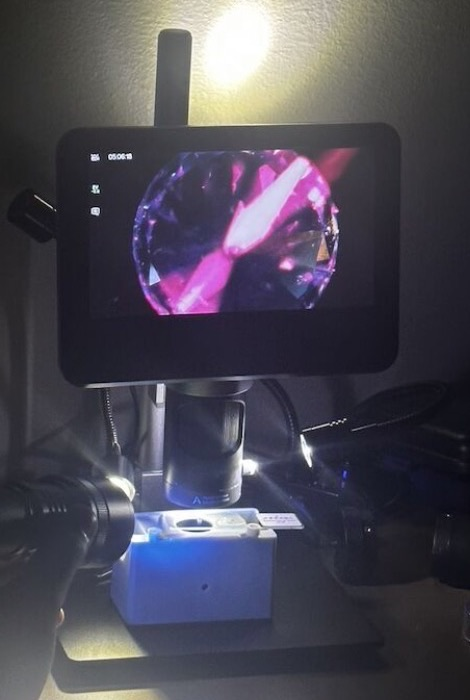
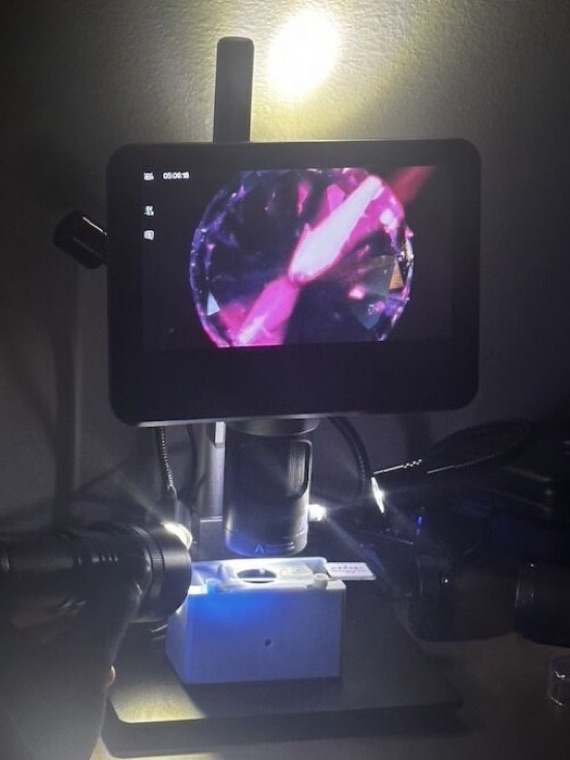
Fill the rig cell instead of floating the machine in black bars
The photograph is portrait and the cell was landscape, so containing it left the
machine stranded between two black gaps while the crystal filled its own cell
completely. The two did not read as a pair, which is what looked wrong.

The rig is re-cropped from the original at 3:4, tight around the whole machine:
screen, column, objective, lit stage and base, nothing spare. Both cells are now
420px and both fill, so the block reads as two views of one job rather than two
pictures of different sizes sharing a border.

diff --git a/index.html b/index.html
@@ -4,8 +4,8 @@
 <meta charset="UTF-8" />
 <meta name="viewport" content="width=device-width, initial-scale=1.0, viewport-fit=cover" />
 <meta name="theme-color" content="#000000" />
-<link rel="icon" href="favicon.svg?v=25" type="image/svg+xml" sizes="any" />
-<link rel="apple-touch-icon" href="favicon.svg?v=25" />
+<link rel="icon" href="favicon.svg?v=26" type="image/svg+xml" sizes="any" />
+<link rel="apple-touch-icon" href="favicon.svg?v=26" />
 
 <title>Jewel Labs</title>
 <meta name="description" content="Jewel Labs builds automated diamond graders and the machine learning models that run them. A polished stone is read on the desk in seconds, and the EU customs filing is built from the record the machine writes." />
@@ -29,7 +29,7 @@
 <link rel="preconnect" href="https://fonts.googleapis.com" />
 <link rel="preconnect" href="https://fonts.gstatic.com" crossorigin />
 <link href="https://fonts.googleapis.com/css2?family=Geist:wght@300;400;500&family=Inter:wght@300;400;450;500&display=swap" rel="stylesheet" />
-<link rel="stylesheet" href="style.css?v=25" />
+<link rel="stylesheet" href="style.css?v=26" />
 <script>document.documentElement.classList.add('js')</script>
 
 <script type="application/ld+json">
@@ -115,7 +115,7 @@ setTimeout(function () {
     </div>
     <div class="media">
       <figure class="media__cell media__cell--rig">
-        <img src="img/scope.jpg" width="470" height="700" loading="lazy" decoding="async"
+        <img src="img/scope.jpg" width="570" height="760" loading="lazy" decoding="async"
              alt="The bench microscope, a diamond on its lit stage and the magnified stone on the screen above it." />
         <figcaption>The bench rig, reading one stone</figcaption>
       </figure>
@@ -438,6 +438,6 @@ setTimeout(function () {
   </div>
 </footer>
 
-<script src="app.js?v=25" defer></script>
+<script src="app.js?v=26" defer></script>
 </body>
 </html>

diff --git a/style.css b/style.css
@@ -790,7 +790,7 @@ body.stone-home .hero__stone { visibility: visible; }
    in a single frame, rather than two pictures floating separately on black. */
 .media {
   display: grid;
-  grid-template-columns: minmax(0, 320px) minmax(0, 1fr);
+  grid-template-columns: minmax(0, 315px) minmax(0, 1fr);
   gap: 1px;
   margin-top: 40px;
   background: var(--line);
@@ -803,16 +803,16 @@ body.stone-home .hero__stone { visibility: visible; }
 .media__cell > video {
   display: block;
   width: 100%;
-  height: 330px;
+  height: 420px;
   object-fit: cover;
   object-position: center;
   background: var(--bg);
   animation: none;
   transform: none;
 }
-/* the rig is portrait and the whole machine has to be in frame, so it is
-   contained rather than cropped. Its letterbox is black on black. */
-.media__cell--rig > img { object-fit: contain; }
+/* the rig is cropped to 3:4 around the whole machine, so it fills its cell
+   with nothing left over. */
+.media__cell--rig > img { object-position: center; }
 .media__cell figcaption {
   margin-top: auto;
   padding: 13px 16px;
@@ -821,7 +821,8 @@ body.stone-home .hero__stone { visibility: visible; }
 }
 @media (max-width: 860px) {
   .media { grid-template-columns: 1fr; }
-  .media__cell > img, .media__cell > video { height: 230px; }
+  .media__cell > img, .media__cell > video { height: 260px; }
+  .media__cell--rig > img { height: 300px; }
 }
 
 /* the last thing before the calendar arrives on its own, slowly */

diff --git a/privacy.html b/privacy.html
@@ -7,11 +7,11 @@
 <title>Privacy | Jewel Labs</title>
 <meta name="description" content="What this site collects, and what it does not." />
 <link rel="canonical" href="https://grader.jewellabs.io/privacy" />
-<link rel="icon" href="favicon.svg?v=25" type="image/svg+xml" />
+<link rel="icon" href="favicon.svg?v=26" type="image/svg+xml" />
 <link rel="preconnect" href="https://fonts.googleapis.com" />
 <link rel="preconnect" href="https://fonts.gstatic.com" crossorigin />
 <link href="https://fonts.googleapis.com/css2?family=Geist:wght@300;400;500&family=Inter:wght@300;400;500&display=swap" rel="stylesheet" />
-<link rel="stylesheet" href="style.css?v=25" />
+<link rel="stylesheet" href="style.css?v=26" />
 </head>
 <body>
 <header class="nav stuck">

diff --git a/terms.html b/terms.html
@@ -7,11 +7,11 @@
 <title>Terms | Jewel Labs</title>
 <meta name="description" content="Terms of use for the Jewel Labs site." />
 <link rel="canonical" href="https://grader.jewellabs.io/terms" />
-<link rel="icon" href="favicon.svg?v=25" type="image/svg+xml" />
+<link rel="icon" href="favicon.svg?v=26" type="image/svg+xml" />
 <link rel="preconnect" href="https://fonts.googleapis.com" />
 <link rel="preconnect" href="https://fonts.gstatic.com" crossorigin />
 <link href="https://fonts.googleapis.com/css2?family=Geist:wght@300;400;500&family=Inter:wght@300;400;500&display=swap" rel="stylesheet" />
-<link rel="stylesheet" href="style.css?v=25" />
+<link rel="stylesheet" href="style.css?v=26" />
 </head>
 <body>
 <header class="nav stuck">
